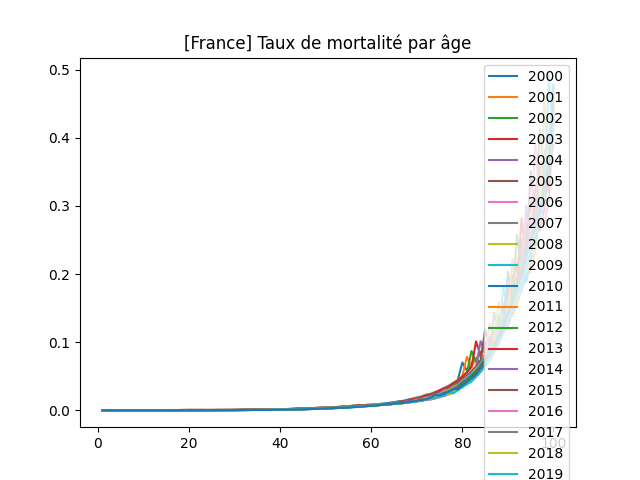
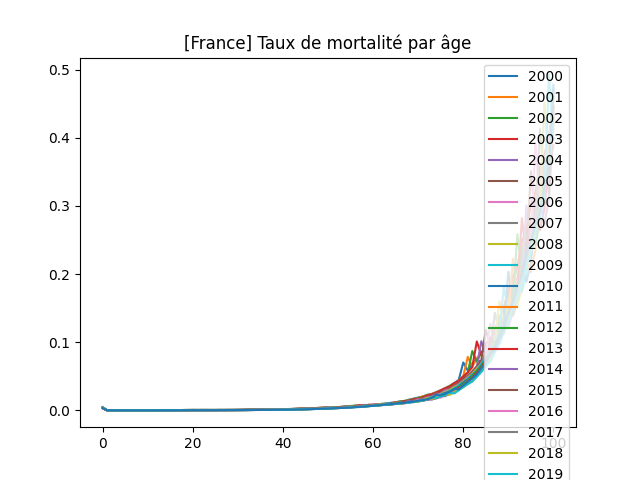
Add subtitle + taux_mortalite_standardise_par_age_2000_to_2021_juin

diff --git a/run.py b/run.py
@@ -27,41 +27,52 @@ def _date_range(date, days):
     return (date, _add_days(date, days))
 
 RANGES = {
-    "pics_2017_2020": [
-        {"name":"Grippe (de 2017-01-01 à 2017-02-01)", "year":2017, "range":("2017-01-01", "2017-02-01")},
-        {"name":"Covid19 (de 2020-03-20 à 2020-04-20)", "year":2020, "range":("2020-03-20", "2020-04-20")},
-    ],
-    "2016_2020": [
-        {"name":str(annee), "year":annee, "range":_date_range(f"{annee}-01-01", 365)}
-        for annee in (2016, 2020)
-    ],
-    "2017_2020": [
-        {"name":str(annee), "year":annee, "range":_date_range(f"{annee}-01-01", 365)}
-        for annee in (2017, 2020)
-    ],
-    "2000_to_2020": [
-        {
-            "name": str(year),
-            "year": year,
-            "range": _date_range(f"{year}-01-01", 365)
-        }
-        for year in range(2000, 2020+1)
-    ],
-    "2000_to_2021_juin": [
-        {
-            "name": str(year),
-            "year": year,
-            "range": _date_range(f"{year-1}-06-01", 365)
-        }
-        for year in range(2001, 2021+1)
-    ]
+    "pics_2017_2020": {
+        "ranges": [
+            {"name":"Grippe (de 2017-01-01 à 2017-02-01)", "year":2017, "range":("2017-01-01", "2017-02-01")},
+            {"name":"Covid19 (de 2020-03-20 à 2020-04-20)", "year":2020, "range":("2020-03-20", "2020-04-20")},
+        ]
+    },
+    "2016_2020": {
+        "ranges": [
+            {"name":str(annee), "year":annee, "range":_date_range(f"{annee}-01-01", 365)}
+            for annee in (2016, 2020)
+        ]
+    },
+    "2017_2020": {
+        "ranges": [
+            {"name":str(annee), "year":annee, "range":_date_range(f"{annee}-01-01", 365)}
+            for annee in (2017, 2020)
+        ]
+    },
+    "2000_to_2020": {
+        "ranges": [
+            {
+                "name": str(year),
+                "year": year,
+                "range": _date_range(f"{year}-01-01", 365)
+            }
+            for year in range(2000, 2020+1)
+        ]
+    },
+    "2000_to_2021_juin": {
+        "subtitle": "juin à juin",
+        "ranges": [
+            {
+                "name": str(year),
+                "year": year,
+                "range": _date_range(f"{year-1}-06-01", 365)
+            }
+            for year in range(2001, 2021+1)
+        ]
+    }
 }
 
 
 # assert all date ranges have same duration
 for drkey, ranges in RANGES.items():
     duration = None
-    for dr in ranges:
+    for dr in ranges["ranges"]:
         start_date, end_date = dr["range"]
         dur = _to_dt(end_date) - _to_dt(start_date)
         if duration is None:
@@ -153,8 +164,10 @@ def cmd_all(do_import):
     compute_deces_par_age("pics_2017_2020")
     compute_deces_par_age("2016_2020", simulate=True)
     compute_taux_mortalite_standardise_par_age("2000_to_2020")
+    compute_taux_mortalite_standardise_par_age("2000_to_2021_juin")
     compute_mortality_forecast()
-    compute_surmortality()
+    compute_surmortality(debut=2010)
+    compute_surmortality(debut=2015)
 
 
 def _db_connect():
@@ -340,19 +353,23 @@ def _import_pda2_file(conn, conf):
 @click.argument("date_ranges", type=click.Choice(RANGES.keys()))
 def cmd_compute_taux_mortalite_par_age(date_ranges, min_age, max_age):
     print(f"compute taux_mortalite_par_age {date_ranges}")
-    compute_taux_mortalite_par_age(RANGES[date_ranges], f'taux_mortalite_par_age_{date_ranges}.png', min_age=min_age, max_age=max_age)
+    compute_taux_mortalite_par_age(date_ranges, min_age=min_age, max_age=max_age)
 
 
-def compute_taux_mortalite_par_age(ranges, ofname, min_age=0, max_age=100):
+def compute_taux_mortalite_par_age(drkey, min_age=0, max_age=100):
     plt.clf()
+    ranges = RANGES[drkey]
+    title = "[France] Taux de mortalité par âge"
+    if "subtitle" in ranges:
+        title += f' ({ranges["subtitle"]})'
     plt.title("[France] Taux de mortalité par âge")
     with _db_connect() as conn:
         age_range = list(range(min_age, max_age+1))
-        for dr in ranges:
+        for dr in ranges["ranges"]:
             taux_mortalite_par_age = _compute_taux_mortalite_par_age(conn, dr["year"], dr["range"])
             plt.plot(age_range, [taux_mortalite_par_age.get(i, 0) for i in age_range], label=dr["name"])
     plt.legend()
-    plt.savefig(os.path.join(HERE, f'results/{ofname}'))
+    plt.savefig(os.path.join(HERE, f'results/taux_mortalite_par_age_{drkey}.png'))
 
 
 def _select_pop_par_age(conn, annee):
@@ -389,7 +406,7 @@ def compute_deces_par_date(drkey, forecast_diff=False):
     plt.clf()
     plt.title("[France] Décès par date")
     with _db_connect() as conn:
-        for dr in RANGES[drkey]:
+        for dr in RANGES[drkey]["ranges"]:
             dates = _date_range_to_dates(dr["range"])
             deces_par_date = _select_deces_par_date(conn, dr["range"])
             plt.plot(range(len(dates)), [deces_par_date.get(d, 0) for d in dates], label=dr["name"])
@@ -417,7 +434,7 @@ def compute_population_par_age(drkey):
     plt.title("[France] Population par âge")
     age_range = list(range(1, 101))
     with _db_connect() as conn:
-        for dr in RANGES[drkey]:
+        for dr in RANGES[drkey]["ranges"]:
             pop_par_age = _select_pop_par_age(conn, dr["year"])
             plt.plot(age_range, [pop_par_age.get(i, 0) for i in age_range], label=dr["year"])
     plt.legend()
@@ -439,11 +456,11 @@ def compute_deces_par_age(drkey, simulate=False, cum_diff=False):
     age_range = list(range(1, 101))
     nb_deces_par_age = {}
     with _db_connect() as conn:
-        for dr in RANGES[drkey]:
+        for dr in RANGES[drkey]["ranges"]:
             name = dr["name"]
             nb_deces_par_age[name] = _select_deces_par_age(conn, dr["range"])
             plt.plot(age_range, [nb_deces_par_age[name].get(i, 0) for i in age_range], label=name)
-        range1, range2 = RANGES[drkey][0], RANGES[drkey][1]
+        range1, range2 = RANGES[drkey]["ranges"][0], RANGES[drkey]["ranges"][1]
         name1, name2 = range1["name"], range2["name"]
         if simulate:
             nb_deces_par_age["simulation"] = _simulate_deces_par_age(conn, range1["year"], range1["range"], range2["year"])
@@ -488,10 +505,14 @@ def cmd_compute_taux_mortalite_standardise_par_age(date_ranges, age_min):
 def compute_taux_mortalite_standardise_par_age(drkey, age_min=0):
     print(f"compute taux_mortalite_standardise_par_age {drkey}")
     plt.clf()
-    plt.title("[France] Taux de mortalité moyennée par âge")
+    ranges = RANGES[drkey]
+    title = "[France] Taux de mortalité standardisé par âge"
+    if "subtitle" in ranges:
+        title += f' ({ranges["subtitle"]})'
+    plt.title(title)
     moyennes_mortalite = []
     with _db_connect() as conn:
-        for dr in RANGES[drkey]:
+        for dr in ranges["ranges"]:
             annee = dr["year"]
             pop_par_age = _select_pop_par_age(conn, annee)
             deces_par_age = _select_deces_par_age(conn, (f"{annee}-01-01", f"{annee}-12-31"))
@@ -501,7 +522,7 @@ def compute_taux_mortalite_standardise_par_age(drkey, age_min=0):
                 if age >= age_min
             }
             moyennes_mortalite.append(sum(mortalite_par_age.values()) / len(mortalite_par_age))
-    plt.bar([dr["year"] for dr in RANGES[drkey]], moyennes_mortalite)
+    plt.bar([dr["year"] for dr in ranges["ranges"]], moyennes_mortalite)
     plt.legend()
     plt.savefig(os.path.join(HERE, f'results/taux_mortalite_standardise_par_age_{drkey}.png'))
 
@@ -518,7 +539,7 @@ def compute_mortalite_par_annee(drkey):
     plt.title("[France] Mortalité")
     moyennes_mortalite = []
     with _db_connect() as conn:
-        res = __compute_mortalite_par_annee(conn, [dr["year"] for dr in RANGES[drkey]])
+        res = __compute_mortalite_par_annee(conn, [dr["year"] for dr in RANGES[drkey]["ranges"]])
         plt.bar(res.keys(),res.values())
         plt.legend()
         plt.savefig(os.path.join(HERE, f'results/mortalite_par_annee_{drkey}.png'))

diff --git a/README.md b/README.md
@@ -46,6 +46,10 @@ On peut constater que le taux de mortalité de l'année 2020 (1ière année du C
 
 ![Taux de mortalité standardisé par âge](results/taux_mortalite_standardise_par_age_2000_to_2020.png)
 
+Même résultats avec des années comptées de juin à juin (ici jusqu'à juin 2021)
+
+![Taux de mortalité standardisé par âge (juin à juin)](results/taux_mortalite_standardise_par_age_2000_to_2021_juin.png)
+
 # Résultats: Surmortalité 2020
 
 On nous présente le covid comme ayant provoqué plus de 110k morts en France. Mais par ce chiffre nous ne savons rien de l'âge de ces morts, de leur état de santé, ni de si ils seraient morts ou non sans le covid.
